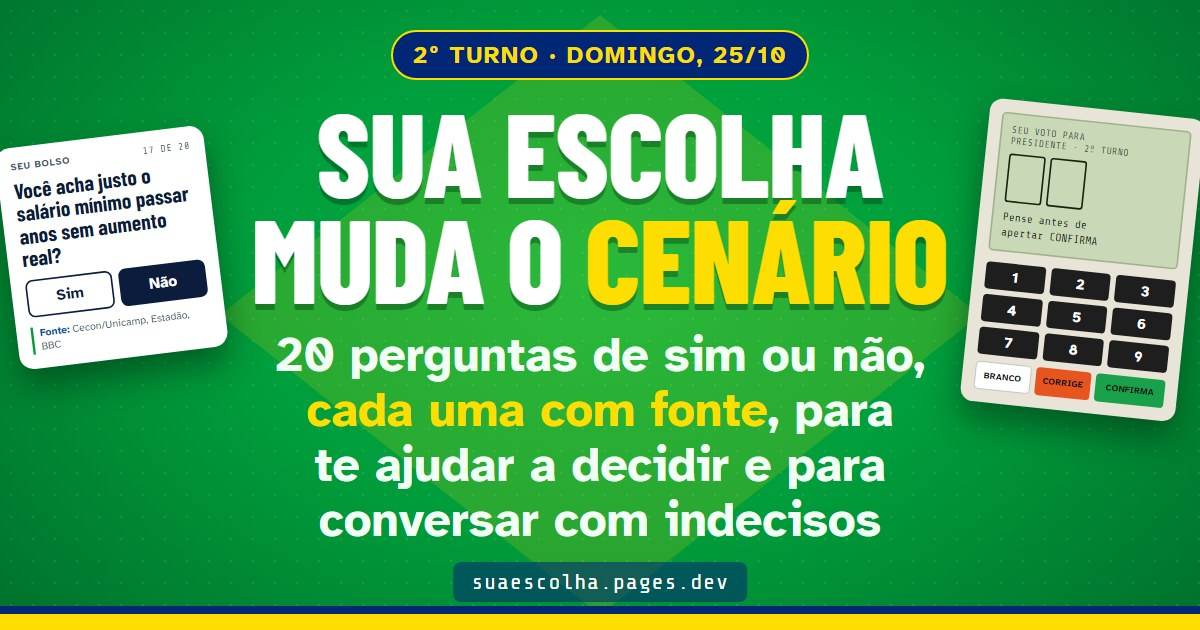
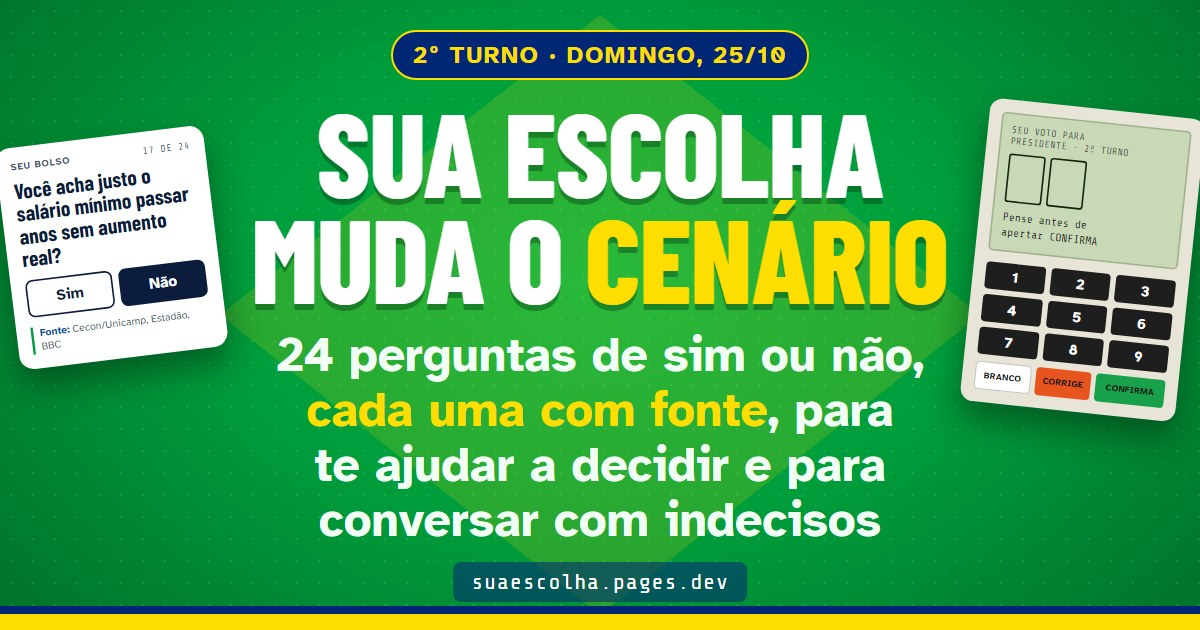
feat: pergunta da Lei Rouanet junta o filme e as festas; corrige a frase do Moro na pergunta da PF
- Filme + festas viram uma pergunta só, no formato do vídeo "Lei Rouanet? Desenhandinho"
  (PT Paraná, 11/10): descreve a Rouanet sem dizer o nome e revela depois; o "Sim" conta para o 13
- Fontes novas: nota "Zero de lei Rouanet", "Não sou eu que tenho que prestar conta, é Lula",
  produtora que buscou R$ 8,6 mi na Rouanet, Comprova sobre aprovado x captado
- Quiz passa a 24 perguntas (tela inicial, imagem da prévia, texto de compartilhar, manifest)
- PF: a frase "Jair pediu para a PF não atrapalhar a investigação" sugeria o contrário (pedido
  da Lorena, 23/10); agora traz o contexto da decisão do Toffoli e a fala literal do Moro
- Prévia do WhatsApp em ?v=3

Changed region(s): [[0.2158, 0.5127, 0.7708, 0.6032]]

diff --git a/fonte/app.html b/fonte/app.html
@@ -229,7 +229,7 @@ body::before{content:"";position:fixed;inset:0 0 auto;height:env(safe-area-inset
     <div class="eyebrow"><span>Nova conversa</span></div>
     <h2 class="pergunta" id="inicioTit">Como vai ser a conversa?</h2>
     <button class="modo principal" type="button" data-modo="rua"><b>Modo rua</b><span>2 a 5 minutos. A pessoa escolhe o tema e responde de 1 a 3 perguntas.</span></button>
-    <button class="modo" type="button" data-modo="completo"><b>Quiz completo</b><span>Até 25 perguntas, com resultado no fim. Com o perfil, a ordem e a quantidade se ajustam à pessoa.</span></button>
+    <button class="modo" type="button" data-modo="completo"><b>Quiz completo</b><span>Até 24 perguntas, com resultado no fim. Com o perfil, a ordem e a quantidade se ajustam à pessoa.</span></button>
   </section>
 
   <section class="card" id="triagem" hidden aria-labelledby="triagemTit">
@@ -368,7 +368,7 @@ const TEMAS = [
 ];
 /* Ordem pelo perfil. O voto decide se os escândalos aparecem; a idade e o gênero decidem quais temas vêm primeiro.
    Regras combinadas com a coordenação em 22/10; sem perfil preenchido, vale a ORDEM padrão */
-const ESCANDALOS = ["cnbb","pf","mentiras","filme","mansao","apostas","laranja","lavagem","kassio","milicia","festas"];
+const ESCANDALOS = ["cnbb","pf","mentiras","filme","mansao","apostas","laranja","lavagem","kassio","milicia"];
 const PRIO_IDADE = {
   "16 a 17 anos":["jornada","bets","univ","clima"], "18 a 24 anos":["jornada","bets","univ","clima"],
   "25 a 34 anos":["jornada","salario","irricos","mei","cesta"], "35 a 44 anos":["jornada","salario","irricos","mei","cesta"],
@@ -418,16 +418,15 @@ const CURTO = {
   tarifaco:"Flávio agradeceu a Trump no dia em que ele anunciou a tarifa de 50% contra produtos brasileiros.",
   armas:"Aliados de Flávio querem derrubar o Estatuto do Desarmamento. Lula endureceu as regras de armas em 2023.",
   cnbb:"Flávio acusou bispos da CNBB de espalhar fake news, sem mostrar provas.",
-  pf:"Segundo Sergio Moro, Jair pediu para a PF não atrapalhar a investigação sobre o filho Flávio.",
+  pf:"Segundo Sergio Moro, quando uma decisão judicial travou a investigação sobre Flávio, Jair pediu que ele não agisse contra ela: \"Moro, se você não vai ajudar, não atrapalhe\".",
   mentiras:"Flávio dizia não conhecer o dono do Banco Master. Nas mensagens, chamava ele de \"irmãozão\".",
-  filme:"Flávio negociou R$ 134 milhões com o banqueiro do Master, hoje preso, para o filme sobre o pai.",
+  filme:"Isso é a Lei Rouanet. O filme sobre Jair foi pelo outro caminho: Flávio negociou R$ 134 milhões com um banqueiro hoje preso, que, segundo a PF, pagava festas com jovens refugiadas.",
   mansao:"Flávio usou de graça uma mansão em Angra ligada a Daniel Vorcaro (dono preso do Banco Master) e a um advogado amigo investigado pela PF.",
   apostas:"O advogado amigo de Flávio movimentou R$ 130 milhões em 3 meses e apostou quase R$ 5 bilhões, diz a PF.",
   laranja:"Uma mulher que disse ser doméstica aparece como chefe de 14 empresas do advogado amigo de Flávio. A PF investiga.",
   lavagem:"A PF investiga Flávio no STF por lavagem de dinheiro: ele aparece como dono da senha geral (\"usuário master\") da conta de uma empresa em Portugal ligada a um investigado na fraude do INSS.",
   kassio:"O banqueiro do Master organizou uma noitada com garotas de programa para Kassio Nunes Marques, ministro indicado por Jair.",
-  milicia:"Flávio homenageou um chefe de milícia e indicou um aliado citado pela PF por suposta troca de favores com o CV.",
-  festas:"Segundo a PF, o banqueiro que bancou o filme de Flávio pagava festas com jovens refugiadas."
+  milicia:"Flávio homenageou um chefe de milícia e indicou um aliado citado pela PF por suposta troca de favores com o CV."
 };
 const detalhesAbertos = {};
 const TELAS = ["inicio","perfilCard","triagem","temas","cardQ","fimRua","final"];
@@ -575,7 +574,7 @@ const BASE = {
   pratica:"É como o dono da empresa pedir ao gerente para não mexer na apuração que envolve o filho dele. O caso era a \"rachadinha\": quando o político fica com parte do salário dos funcionários do gabinete.",
   quem:"Jair Bolsonaro, sobre o caso de Flávio",
   selo:"Relato de Sergio Moro",
-  fato:"Num vídeo antigo, resgatado nesta semana, Sergio Moro, que era ministro da Justiça, conta que Jair Bolsonaro lhe disse para não atrapalhar, se não fosse ajudar, as investigações sobre Flávio. O caso das rachadinhas foi arquivado em 2022, depois que a Justiça anulou as provas por questão de forma, sem decidir se Flávio era culpado ou inocente. Em 2025, o ministro Gilmar Mendes negou reabrir o caso. Em setembro de 2026, Flávio disse que existia um \"grupo especial de Lula\" dentro da PF.",
+  fato:"Numa entrevista de 2022, resgatada nesta semana, Sergio Moro, que era ministro da Justiça, conta que em 2019 uma decisão do ministro Dias Toffoli, do STF, travou por cerca de quatro meses a investigação das rachadinhas de Flávio. Moro queria que o ministério agisse contra a decisão, mas Jair não queria que se mexesse nisso e lhe disse: \"Moro, se você não vai ajudar, não atrapalhe\". O caso das rachadinhas foi arquivado em 2022, depois que a Justiça anulou as provas por questão de forma, sem decidir se Flávio era culpado ou inocente. Em 2025, o ministro Gilmar Mendes negou reabrir o caso. Em setembro de 2026, Flávio disse que existia um \"grupo especial de Lula\" dentro da PF.",
   outro:"É o relato de Moro, que hoje apoia Flávio. Jair sempre negou ter interferido na PF. Flávio diz que defende uma PF independente, que persiga criminosos e não adversários do governo.",
   treze:"No governo Lula, a PF investiga a fraude do INSS, incluindo apurações sobre Lulinha, que nega envolvimento. Uma reportagem apontou que essa investigação travou por falta de policiais.",
   fontes:[
@@ -599,20 +598,6 @@ const BASE = {
    ["DGABC","03/10/2026","Flávio Bolsonaro encerra último ato de campanha no Rio em frente a igreja","https://www.dgabc.com.br/Noticia/4350628/flavio-bolsonaro-encerra-ultimo-ato-de-campanha-no-rio-em-frente-a-igreja"],
    ["Aos Fatos","26/09/2026","Boatos sobre Nossa Senhora Aparecida e Flávio repaginam narrativas falsas","https://www.aosfatos.org/noticias/boato-sobre-nossa-senhora-aparecida-e-flavio-retoma-narrativas-falsas-de-2018-e-2022/"],
    ["NSC Total","04/10/2022","TSE manda apagar publicações que tentam ligar Lula à perseguição de cristãos","https://www.nsctotal.com.br/?p=2410418"]
-  ]
- },
- festas:{
-  cat:"master", t:"Festas com refugiadas pagas pelo Vorcaro",
-  p:"Você votaria em quem negociou dinheiro para o filme do pai com um banqueiro que, segundo mensagens da PF, pagava festas com jovens refugiadas que chamava de \"escravas\"?",
-  pratica:"Refugiadas são mulheres que fugiram de guerra ou de crise no país delas, como Ucrânia e Venezuela, e chegam aqui sem dinheiro e sem apoio.",
-  quem:"Daniel Vorcaro, patrocinador do filme de Flávio",
-  selo:"Mensagens da PF · inquérito aberto",
-  fato:"Mensagens do celular de Daniel Vorcaro, dono do Banco Master, reveladas pelo UOL a partir de um relatório da PF, mostram que ele organizava e pagava festas com mulheres para empresários e políticos desde pelo menos 2023. Ele preferia jovens refugiadas de até 20 anos, vindas de países como Ucrânia, Rússia e Venezuela. Nas conversas, ele e um promoter chamam as mulheres de \"escravas\", e Vorcaro escreve: \"Tem que sobrar alguma refugiada pra mim\". Numa festa em Londres, em 2024, com autoridades de Brasília, 99 mulheres foram levadas. Ele investiu pelo menos R$ 4,3 milhões no esquema, e a PF abriu inquérito em maio. É o mesmo banqueiro com quem Flávio negociou R$ 134 milhões para o filme sobre o pai.",
-  outro:"Não há registro de que Flávio tenha ido a essas festas. A defesa de Vorcaro não quis comentar o caso. Em outra ocasião, ele negou ter explorado ou desrespeitado mulheres.",
-  video:EP7,
-  fontes:[
-   ["O Tempo (com UOL)","13/10/2026","Vorcaro mantinha rede de prostituição com jovens refugiadas que ele chamava de escravas","https://www.otempo.com.br/politica/judiciario/2026/10/13/vorcaro-mantinha-rede-de-prostituicao-com-jovens-refugiadas-que-ele-chamava-de-escravas"],
-   ["Pipoca Moderna","20/10/2026","Porchat aborda tráfico de mulheres e negócios ocultos em novo vídeo sobre Flávio","https://pipocamoderna.com.br/2026/10/porchat-revelando-laranjas-flavio/"]
   ]
  },
  lavagem:{
@@ -673,17 +658,23 @@ const BASE = {
   ]
  },
  filme:{
-  cat:"master", t:"R$ 134 milhões para o filme do pai",
-  p:"Você acha aceitável um candidato negociar R$ 134 milhões com um banqueiro hoje preso para um filme sobre o pai?",
-  pratica:"R$ 134 milhões dariam para pagar o salário mínimo de uns 82 mil trabalhadores por um mês.",
-  quem:"Flávio Bolsonaro",
+  cat:"master", t:"Rouanet ou banqueiro preso?", l13:"sim",
+  p:"Você acha certo um filme ser feito assim: o artista vai atrás de patrocínio de empresas, o projeto é aprovado antes, a empresa desconta parte do imposto e, no fim, o artista tem que mostrar onde gastou cada real?",
+  pratica:"Descontar do imposto é a empresa pagar menos imposto de renda no valor que deu para a cultura, até um limite pequeno do que ela deve.",
+  quem:"A Lei Rouanet, de 1991. O filme sobre Jair: Flávio Bolsonaro, com dinheiro de Vorcaro",
   selo:"Investigado pela PF",
-  fato:"Segundo o Intercept, Flávio negociou com Daniel Vorcaro, dono do Banco Master, um repasse de US$ 24 milhões (R$ 134 milhões) para o filme Dark Horse, sobre Jair Bolsonaro. Documentos mostram pelo menos US$ 10,6 milhões pagos em 2025. A PF investiga o caso no STF, com Flávio entre os investigados. Vorcaro está preso desde março.",
-  outro:"Flávio diz que o filme é privado, sem dinheiro público, e nega ter recebido dinheiro ou oferecido vantagens a Vorcaro.",
+  fato:"O que você acabou de responder é como funciona a Lei Rouanet, de 1991. O governo não entrega dinheiro na mão do artista: o projeto é aprovado pelo Ministério da Cultura, o artista vai atrás de patrocínio e a empresa desconta parte do imposto de renda. Quem não presta contas ou gasta errado tem que devolver o dinheiro e fica 3 anos sem poder captar. Ter projeto aprovado também não é receber: em 2023, foram aprovados cerca de R$ 16 bilhões e captados R$ 2,3 bilhões. Sobre o filme Dark Horse, sobre Jair Bolsonaro, Flávio disse em nota: \"Zero de dinheiro público. Zero de lei Rouanet\". O filme foi por outro caminho: segundo o Intercept, Flávio negociou com Daniel Vorcaro, dono do Banco Master, preso desde março, US$ 24 milhões (R$ 134 milhões), e pelo menos US$ 10,6 milhões foram pagos em 2025. Flávio prometeu prestar contas em 30 dias; em agosto, disse: \"Não sou eu que tenho que prestar conta, é Lula\". Um laudo pago pela produtora diz que o filme custou R$ 75 milhões, sem recibos nem notas fiscais. A dona da produtora, aliás, tentou captar R$ 8,6 milhões pela Rouanet para outros projetos entre 2015 e 2019, e conseguiu R$ 107 mil. E mensagens do celular de Vorcaro, reveladas pelo UOL a partir de um relatório da PF, mostram que ele pagava festas com jovens refugiadas, que ele e um promoter chamavam de \"escravas\"; a PF abriu inquérito em maio. A PF investiga o filme no STF, com Flávio entre os investigados.",
+  outro:"Flávio diz que o filme é privado, sem dinheiro público, nega ter recebido dinheiro ou oferecido vantagens a Vorcaro e diz que a produtora já prestou contas num inquérito da Polícia Civil de São Paulo. Não há registro de que Flávio tenha ido às festas; Vorcaro já negou ter explorado ou desrespeitado mulheres.",
   treze:"Lula recebeu Vorcaro em dezembro de 2024, fora da agenda oficial, num encontro articulado por Guido Mantega, que foi consultor do Master. Políticos do Centrão também aparecem na rede de Vorcaro.",
   video:{t:"Revelando, ep. 2: Grandes Igrejas, Master Negócios",u:"https://www.youtube.com/watch?v=DJ-YAXhDkhY&t=480s",d:"Abre em 08:00, no capítulo \"Vorcaro e Flávio Bolsonaro\"."},
   fontes:[
+   ["Comprova, via Diário do Nordeste","12/09/2024","Há diferença entre os valores que são aprovados e os que são captados por projetos via Lei Rouanet","https://diariodonordeste.verdesmares.com.br/projeto-comprova/ha-diferenca-entre-os-valores-que-sao-aprovados-e-os-que-sao-captados-por-projetos-via-lei-rouanet-1.3557248"],
+   ["Bahia Notícias","29/11/2016","MinC reprova contas de mais 3 projetos via Lei Rouanet; restituição ultrapassa R$ 750 mil","https://www.bahianoticias.com.br/cultura/noticia/26383-minc-reprova-contas-de-mais-3-projetos-via-lei-rouanet-restituicao-ultrapassa-rdollar-750-mil"],
+   ["BBC News Brasil, via O Povo","27/05/2026","De \"baixíssimo orçamento\" a milhões pedidos a Vorcaro: os bastidores do filme sobre Bolsonaro (nota de Flávio)","https://www.opovo.com.br/agencia/bbc/2026/05/27/de-baixissimo-orcamento-a-milhoes-pedidos-a-vorcaro-os-bastidores-do-filme-sobre-bolsonaro.html"],
    ["Intercept Brasil, via Bem Paraná","13/05/2026","Flávio pediu R$ 134 milhões a Vorcaro para filme de Bolsonaro","https://www.bemparana.com.br/noticias/politica/flavio-pediu-r-134-milhoes-a-vorcaro-para-filme-de-bolsonaro-afirma-intercept/"],
+   ["Diário de Pernambuco","25/08/2026","Flávio Bolsonaro sobre Dark Horse: \"Não sou eu que tenho que prestar conta, é Lula\"","https://www.diariodepernambuco.com.br/politica/2026/08/11722184-flavio-bolsonaro-sobre-dark-horse-nao-sou-eu-que-tenho-que-prestar-conta-e-lula.html"],
+   ["Folha de S.Paulo, via Bahia Notícias","23/05/2026","Dona de produtora de filme sobre Bolsonaro buscou Lei Rouanet para projetos de R$ 8,6 milhões","https://www.bahianoticias.com.br/folha/noticia/393688-dona-de-produtora-de-filme-sobre-bolsonaro-buscou-lei-rouanet-para-projetos-de-r-86-milhoes"],
+   ["O Tempo (com UOL)","13/10/2026","Vorcaro mantinha rede de prostituição com jovens refugiadas que ele chamava de escravas","https://www.otempo.com.br/politica/judiciario/2026/10/13/vorcaro-mantinha-rede-de-prostituicao-com-jovens-refugiadas-que-ele-chamava-de-escravas"],
    ["Folha de Pernambuco","16/10/2026","PF pede mais 90 dias para investigar Dark Horse","https://www.folhape.com.br/politica/pf-pede-mais-90-dias-para-investigar-dark-horse/518933/"],
    ["Gazeta do Povo","07/03/2026","Do Planalto ao Centrão: quem são os políticos na teia de Vorcaro","https://www.gazetadopovo.com.br/republica/do-planalto-ao-centrao-quem-sao-os-politicos-na-teia-de-vorcaro/"]
   ]
@@ -828,7 +819,7 @@ const BASE = {
 };
 
 /* "Todas": dos temas mais leves aos mais pesados, para a pessoa não desistir logo no começo */
-const ORDEM = ["cesta","irricos","jornada","mei","bets","clima","salario","farmacia","aposentadoria","univ","privat","terras","tarifaco","armas","cnbb","pf","mentiras","filme","mansao","apostas","laranja","lavagem","kassio","milicia","festas"];
+const ORDEM = ["cesta","irricos","jornada","mei","bets","clima","salario","farmacia","aposentadoria","univ","privat","terras","tarifaco","armas","cnbb","pf","mentiras","filme","mansao","apostas","laranja","lavagem","kassio","milicia"];
 const NUM = Object.fromEntries(ORDEM.map((id,k)=>[id,k+1]));
 const CATNOME = Object.fromEntries(CATS.map(c=>[c.id,c.nome]));
 

diff --git a/site/app.js b/site/app.js
@@ -40,7 +40,7 @@ const TEMAS = [
 ];
 /* Ordem pelo perfil. O voto decide se os escândalos aparecem; a idade e o gênero decidem quais temas vêm primeiro.
    Regras combinadas com a coordenação em 22/10; sem perfil preenchido, vale a ORDEM padrão */
-const ESCANDALOS = ["cnbb","pf","mentiras","filme","mansao","apostas","laranja","lavagem","kassio","milicia","festas"];
+const ESCANDALOS = ["cnbb","pf","mentiras","filme","mansao","apostas","laranja","lavagem","kassio","milicia"];
 const PRIO_IDADE = {
   "16 a 17 anos":["jornada","bets","univ","clima"], "18 a 24 anos":["jornada","bets","univ","clima"],
   "25 a 34 anos":["jornada","salario","irricos","mei","cesta"], "35 a 44 anos":["jornada","salario","irricos","mei","cesta"],
@@ -90,16 +90,15 @@ const CURTO = {
   tarifaco:"Flávio agradeceu a Trump no dia em que ele anunciou a tarifa de 50% contra produtos brasileiros.",
   armas:"Aliados de Flávio querem derrubar o Estatuto do Desarmamento. Lula endureceu as regras de armas em 2023.",
   cnbb:"Flávio acusou bispos da CNBB de espalhar fake news, sem mostrar provas.",
-  pf:"Segundo Sergio Moro, Jair pediu para a PF não atrapalhar a investigação sobre o filho Flávio.",
+  pf:"Segundo Sergio Moro, quando uma decisão judicial travou a investigação sobre Flávio, Jair pediu que ele não agisse contra ela: \"Moro, se você não vai ajudar, não atrapalhe\".",
   mentiras:"Flávio dizia não conhecer o dono do Banco Master. Nas mensagens, chamava ele de \"irmãozão\".",
-  filme:"Flávio negociou R$ 134 milhões com o banqueiro do Master, hoje preso, para o filme sobre o pai.",
+  filme:"Isso é a Lei Rouanet. O filme sobre Jair foi pelo outro caminho: Flávio negociou R$ 134 milhões com um banqueiro hoje preso, que, segundo a PF, pagava festas com jovens refugiadas.",
   mansao:"Flávio usou de graça uma mansão em Angra ligada a Daniel Vorcaro (dono preso do Banco Master) e a um advogado amigo investigado pela PF.",
   apostas:"O advogado amigo de Flávio movimentou R$ 130 milhões em 3 meses e apostou quase R$ 5 bilhões, diz a PF.",
   laranja:"Uma mulher que disse ser doméstica aparece como chefe de 14 empresas do advogado amigo de Flávio. A PF investiga.",
   lavagem:"A PF investiga Flávio no STF por lavagem de dinheiro: ele aparece como dono da senha geral (\"usuário master\") da conta de uma empresa em Portugal ligada a um investigado na fraude do INSS.",
   kassio:"O banqueiro do Master organizou uma noitada com garotas de programa para Kassio Nunes Marques, ministro indicado por Jair.",
-  milicia:"Flávio homenageou um chefe de milícia e indicou um aliado citado pela PF por suposta troca de favores com o CV.",
-  festas:"Segundo a PF, o banqueiro que bancou o filme de Flávio pagava festas com jovens refugiadas."
+  milicia:"Flávio homenageou um chefe de milícia e indicou um aliado citado pela PF por suposta troca de favores com o CV."
 };
 const detalhesAbertos = {};
 const TELAS = ["inicio","perfilCard","triagem","temas","cardQ","fimRua","final"];
@@ -247,7 +246,7 @@ const BASE = {
   pratica:"É como o dono da empresa pedir ao gerente para não mexer na apuração que envolve o filho dele. O caso era a \"rachadinha\": quando o político fica com parte do salário dos funcionários do gabinete.",
   quem:"Jair Bolsonaro, sobre o caso de Flávio",
   selo:"Relato de Sergio Moro",
-  fato:"Num vídeo antigo, resgatado nesta semana, Sergio Moro, que era ministro da Justiça, conta que Jair Bolsonaro lhe disse para não atrapalhar, se não fosse ajudar, as investigações sobre Flávio. O caso das rachadinhas foi arquivado em 2022, depois que a Justiça anulou as provas por questão de forma, sem decidir se Flávio era culpado ou inocente. Em 2025, o ministro Gilmar Mendes negou reabrir o caso. Em setembro de 2026, Flávio disse que existia um \"grupo especial de Lula\" dentro da PF.",
+  fato:"Numa entrevista de 2022, resgatada nesta semana, Sergio Moro, que era ministro da Justiça, conta que em 2019 uma decisão do ministro Dias Toffoli, do STF, travou por cerca de quatro meses a investigação das rachadinhas de Flávio. Moro queria que o ministério agisse contra a decisão, mas Jair não queria que se mexesse nisso e lhe disse: \"Moro, se você não vai ajudar, não atrapalhe\". O caso das rachadinhas foi arquivado em 2022, depois que a Justiça anulou as provas por questão de forma, sem decidir se Flávio era culpado ou inocente. Em 2025, o ministro Gilmar Mendes negou reabrir o caso. Em setembro de 2026, Flávio disse que existia um \"grupo especial de Lula\" dentro da PF.",
   outro:"É o relato de Moro, que hoje apoia Flávio. Jair sempre negou ter interferido na PF. Flávio diz que defende uma PF independente, que persiga criminosos e não adversários do governo.",
   treze:"No governo Lula, a PF investiga a fraude do INSS, incluindo apurações sobre Lulinha, que nega envolvimento. Uma reportagem apontou que essa investigação travou por falta de policiais.",
   fontes:[
@@ -271,20 +270,6 @@ const BASE = {
    ["DGABC","03/10/2026","Flávio Bolsonaro encerra último ato de campanha no Rio em frente a igreja","https://www.dgabc.com.br/Noticia/4350628/flavio-bolsonaro-encerra-ultimo-ato-de-campanha-no-rio-em-frente-a-igreja"],
    ["Aos Fatos","26/09/2026","Boatos sobre Nossa Senhora Aparecida e Flávio repaginam narrativas falsas","https://www.aosfatos.org/noticias/boato-sobre-nossa-senhora-aparecida-e-flavio-retoma-narrativas-falsas-de-2018-e-2022/"],
    ["NSC Total","04/10/2022","TSE manda apagar publicações que tentam ligar Lula à perseguição de cristãos","https://www.nsctotal.com.br/?p=2410418"]
-  ]
- },
- festas:{
-  cat:"master", t:"Festas com refugiadas pagas pelo Vorcaro",
-  p:"Você votaria em quem negociou dinheiro para o filme do pai com um banqueiro que, segundo mensagens da PF, pagava festas com jovens refugiadas que chamava de \"escravas\"?",
-  pratica:"Refugiadas são mulheres que fugiram de guerra ou de crise no país delas, como Ucrânia e Venezuela, e chegam aqui sem dinheiro e sem apoio.",
-  quem:"Daniel Vorcaro, patrocinador do filme de Flávio",
-  selo:"Mensagens da PF · inquérito aberto",
-  fato:"Mensagens do celular de Daniel Vorcaro, dono do Banco Master, reveladas pelo UOL a partir de um relatório da PF, mostram que ele organizava e pagava festas com mulheres para empresários e políticos desde pelo menos 2023. Ele preferia jovens refugiadas de até 20 anos, vindas de países como Ucrânia, Rússia e Venezuela. Nas conversas, ele e um promoter chamam as mulheres de \"escravas\", e Vorcaro escreve: \"Tem que sobrar alguma refugiada pra mim\". Numa festa em Londres, em 2024, com autoridades de Brasília, 99 mulheres foram levadas. Ele investiu pelo menos R$ 4,3 milhões no esquema, e a PF abriu inquérito em maio. É o mesmo banqueiro com quem Flávio negociou R$ 134 milhões para o filme sobre o pai.",
-  outro:"Não há registro de que Flávio tenha ido a essas festas. A defesa de Vorcaro não quis comentar o caso. Em outra ocasião, ele negou ter explorado ou desrespeitado mulheres.",
-  video:EP7,
-  fontes:[
-   ["O Tempo (com UOL)","13/10/2026","Vorcaro mantinha rede de prostituição com jovens refugiadas que ele chamava de escravas","https://www.otempo.com.br/politica/judiciario/2026/10/13/vorcaro-mantinha-rede-de-prostituicao-com-jovens-refugiadas-que-ele-chamava-de-escravas"],
-   ["Pipoca Moderna","20/10/2026","Porchat aborda tráfico de mulheres e negócios ocultos em novo vídeo sobre Flávio","https://pipocamoderna.com.br/2026/10/porchat-revelando-laranjas-flavio/"]
   ]
  },
  lavagem:{
@@ -345,17 +330,23 @@ const BASE = {
   ]
  },
  filme:{
-  cat:"master", t:"R$ 134 milhões para o filme do pai",
-  p:"Você acha aceitável um candidato negociar R$ 134 milhões com um banqueiro hoje preso para um filme sobre o pai?",
-  pratica:"R$ 134 milhões dariam para pagar o salário mínimo de uns 82 mil trabalhadores por um mês.",
-  quem:"Flávio Bolsonaro",
+  cat:"master", t:"Rouanet ou banqueiro preso?", l13:"sim",
+  p:"Você acha certo um filme ser feito assim: o artista vai atrás de patrocínio de empresas, o projeto é aprovado antes, a empresa desconta parte do imposto e, no fim, o artista tem que mostrar onde gastou cada real?",
+  pratica:"Descontar do imposto é a empresa pagar menos imposto de renda no valor que deu para a cultura, até um limite pequeno do que ela deve.",
+  quem:"A Lei Rouanet, de 1991. O filme sobre Jair: Flávio Bolsonaro, com dinheiro de Vorcaro",
   selo:"Investigado pela PF",
-  fato:"Segundo o Intercept, Flávio negociou com Daniel Vorcaro, dono do Banco Master, um repasse de US$ 24 milhões (R$ 134 milhões) para o filme Dark Horse, sobre Jair Bolsonaro. Documentos mostram pelo menos US$ 10,6 milhões pagos em 2025. A PF investiga o caso no STF, com Flávio entre os investigados. Vorcaro está preso desde março.",
-  outro:"Flávio diz que o filme é privado, sem dinheiro público, e nega ter recebido dinheiro ou oferecido vantagens a Vorcaro.",
+  fato:"O que você acabou de responder é como funciona a Lei Rouanet, de 1991. O governo não entrega dinheiro na mão do artista: o projeto é aprovado pelo Ministério da Cultura, o artista vai atrás de patrocínio e a empresa desconta parte do imposto de renda. Quem não presta contas ou gasta errado tem que devolver o dinheiro e fica 3 anos sem poder captar. Ter projeto aprovado também não é receber: em 2023, foram aprovados cerca de R$ 16 bilhões e captados R$ 2,3 bilhões. Sobre o filme Dark Horse, sobre Jair Bolsonaro, Flávio disse em nota: \"Zero de dinheiro público. Zero de lei Rouanet\". O filme foi por outro caminho: segundo o Intercept, Flávio negociou com Daniel Vorcaro, dono do Banco Master, preso desde março, US$ 24 milhões (R$ 134 milhões), e pelo menos US$ 10,6 milhões foram pagos em 2025. Flávio prometeu prestar contas em 30 dias; em agosto, disse: \"Não sou eu que tenho que prestar conta, é Lula\". Um laudo pago pela produtora diz que o filme custou R$ 75 milhões, sem recibos nem notas fiscais. A dona da produtora, aliás, tentou captar R$ 8,6 milhões pela Rouanet para outros projetos entre 2015 e 2019, e conseguiu R$ 107 mil. E mensagens do celular de Vorcaro, reveladas pelo UOL a partir de um relatório da PF, mostram que ele pagava festas com jovens refugiadas, que ele e um promoter chamavam de \"escravas\"; a PF abriu inquérito em maio. A PF investiga o filme no STF, com Flávio entre os investigados.",
+  outro:"Flávio diz que o filme é privado, sem dinheiro público, nega ter recebido dinheiro ou oferecido vantagens a Vorcaro e diz que a produtora já prestou contas num inquérito da Polícia Civil de São Paulo. Não há registro de que Flávio tenha ido às festas; Vorcaro já negou ter explorado ou desrespeitado mulheres.",
   treze:"Lula recebeu Vorcaro em dezembro de 2024, fora da agenda oficial, num encontro articulado por Guido Mantega, que foi consultor do Master. Políticos do Centrão também aparecem na rede de Vorcaro.",
   video:{t:"Revelando, ep. 2: Grandes Igrejas, Master Negócios",u:"https://www.youtube.com/watch?v=DJ-YAXhDkhY&t=480s",d:"Abre em 08:00, no capítulo \"Vorcaro e Flávio Bolsonaro\"."},
   fontes:[
+   ["Comprova, via Diário do Nordeste","12/09/2024","Há diferença entre os valores que são aprovados e os que são captados por projetos via Lei Rouanet","https://diariodonordeste.verdesmares.com.br/projeto-comprova/ha-diferenca-entre-os-valores-que-sao-aprovados-e-os-que-sao-captados-por-projetos-via-lei-rouanet-1.3557248"],
+   ["Bahia Notícias","29/11/2016","MinC reprova contas de mais 3 projetos via Lei Rouanet; restituição ultrapassa R$ 750 mil","https://www.bahianoticias.com.br/cultura/noticia/26383-minc-reprova-contas-de-mais-3-projetos-via-lei-rouanet-restituicao-ultrapassa-rdollar-750-mil"],
+   ["BBC News Brasil, via O Povo","27/05/2026","De \"baixíssimo orçamento\" a milhões pedidos a Vorcaro: os bastidores do filme sobre Bolsonaro (nota de Flávio)","https://www.opovo.com.br/agencia/bbc/2026/05/27/de-baixissimo-orcamento-a-milhoes-pedidos-a-vorcaro-os-bastidores-do-filme-sobre-bolsonaro.html"],
    ["Intercept Brasil, via Bem Paraná","13/05/2026","Flávio pediu R$ 134 milhões a Vorcaro para filme de Bolsonaro","https://www.bemparana.com.br/noticias/politica/flavio-pediu-r-134-milhoes-a-vorcaro-para-filme-de-bolsonaro-afirma-intercept/"],
+   ["Diário de Pernambuco","25/08/2026","Flávio Bolsonaro sobre Dark Horse: \"Não sou eu que tenho que prestar conta, é Lula\"","https://www.diariodepernambuco.com.br/politica/2026/08/11722184-flavio-bolsonaro-sobre-dark-horse-nao-sou-eu-que-tenho-que-prestar-conta-e-lula.html"],
+   ["Folha de S.Paulo, via Bahia Notícias","23/05/2026","Dona de produtora de filme sobre Bolsonaro buscou Lei Rouanet para projetos de R$ 8,6 milhões","https://www.bahianoticias.com.br/folha/noticia/393688-dona-de-produtora-de-filme-sobre-bolsonaro-buscou-lei-rouanet-para-projetos-de-r-86-milhoes"],
+   ["O Tempo (com UOL)","13/10/2026","Vorcaro mantinha rede de prostituição com jovens refugiadas que ele chamava de escravas","https://www.otempo.com.br/politica/judiciario/2026/10/13/vorcaro-mantinha-rede-de-prostituicao-com-jovens-refugiadas-que-ele-chamava-de-escravas"],
    ["Folha de Pernambuco","16/10/2026","PF pede mais 90 dias para investigar Dark Horse","https://www.folhape.com.br/politica/pf-pede-mais-90-dias-para-investigar-dark-horse/518933/"],
    ["Gazeta do Povo","07/03/2026","Do Planalto ao Centrão: quem são os políticos na teia de Vorcaro","https://www.gazetadopovo.com.br/republica/do-planalto-ao-centrao-quem-sao-os-politicos-na-teia-de-vorcaro/"]
   ]
@@ -500,7 +491,7 @@ const BASE = {
 };
 
 /* "Todas": dos temas mais leves aos mais pesados, para a pessoa não desistir logo no começo */
-const ORDEM = ["cesta","irricos","jornada","mei","bets","clima","salario","farmacia","aposentadoria","univ","privat","terras","tarifaco","armas","cnbb","pf","mentiras","filme","mansao","apostas","laranja","lavagem","kassio","milicia","festas"];
+const ORDEM = ["cesta","irricos","jornada","mei","bets","clima","salario","farmacia","aposentadoria","univ","privat","terras","tarifaco","armas","cnbb","pf","mentiras","filme","mansao","apostas","laranja","lavagem","kassio","milicia"];
 const NUM = Object.fromEntries(ORDEM.map((id,k)=>[id,k+1]));
 const CATNOME = Object.fromEntries(CATS.map(c=>[c.id,c.nome]));
 
@@ -816,7 +807,7 @@ tela("inicio");
 ;
 
 $("btnCompartilhar").addEventListener("click", async () => {
-  const dados = {title:"Sua escolha muda o cenário", text:"20 perguntas de sim ou não, cada uma com fonte, para te ajudar a decidir e para conversar com indecisos no 2º turno:", url:"https://suaescolha.pages.dev/?v=2"};
+  const dados = {title:"Sua escolha muda o cenário", text:"24 perguntas de sim ou não, cada uma com fonte, para te ajudar a decidir e para conversar com indecisos no 2º turno:", url:"https://suaescolha.pages.dev/?v=3"};
   if (navigator.share) { try { await navigator.share(dados); } catch(e){} return; }
   try { await navigator.clipboard.writeText(dados.url); $("avisoCompartilhar").textContent = "Link copiado."; }
   catch(e){ $("avisoCompartilhar").textContent = dados.url; }

diff --git a/site/index.html b/site/index.html
@@ -13,8 +13,8 @@
 <meta property="og:title" content="Sua escolha muda o cenário">
 <meta property="og:description" content="Perguntas de sim ou não, cada uma com fonte, para te ajudar a decidir e para conversar com indecisos no 2º turno.">
 <meta property="og:url" content="https://suaescolha.pages.dev/">
-<meta property="og:image" content="https://suaescolha.pages.dev/og.jpg?v=2">
-<meta property="og:image:secure_url" content="https://suaescolha.pages.dev/og.jpg?v=2">
+<meta property="og:image" content="https://suaescolha.pages.dev/og.jpg?v=3">
+<meta property="og:image:secure_url" content="https://suaescolha.pages.dev/og.jpg?v=3">
 <meta property="og:image:type" content="image/jpeg">
 <meta property="og:image:width" content="1200">
 <meta property="og:image:height" content="630">
@@ -22,7 +22,7 @@
 <meta name="twitter:card" content="summary_large_image">
 <meta name="twitter:title" content="Sua escolha muda o cenário">
 <meta name="twitter:description" content="Perguntas de sim ou não, cada uma com fonte, para te ajudar a decidir e para conversar com indecisos no 2º turno.">
-<meta name="twitter:image" content="https://suaescolha.pages.dev/og.jpg?v=2">
+<meta name="twitter:image" content="https://suaescolha.pages.dev/og.jpg?v=3">
 <link rel="icon" href="/favicon.svg" type="image/svg+xml">
 <link rel="icon" href="/icon-192.png" sizes="192x192" type="image/png">
 <link rel="apple-touch-icon" href="/apple-touch-icon.png">
@@ -260,7 +260,7 @@ body::before{content:"";position:fixed;inset:0 0 auto;height:env(safe-area-inset
     <div class="eyebrow"><span>Nova conversa</span></div>
     <h2 class="pergunta" id="inicioTit">Como vai ser a conversa?</h2>
     <button class="modo principal" type="button" data-modo="rua"><b>Modo rua</b><span>2 a 5 minutos. A pessoa escolhe o tema e responde de 1 a 3 perguntas.</span></button>
-    <button class="modo" type="button" data-modo="completo"><b>Quiz completo</b><span>Até 25 perguntas, com resultado no fim. Com o perfil, a ordem e a quantidade se ajustam à pessoa.</span></button>
+    <button class="modo" type="button" data-modo="completo"><b>Quiz completo</b><span>Até 24 perguntas, com resultado no fim. Com o perfil, a ordem e a quantidade se ajustam à pessoa.</span></button>
   </section>
 
   <section class="card" id="triagem" hidden aria-labelledby="triagemTit">

diff --git a/fonte/og.html b/fonte/og.html
@@ -52,7 +52,7 @@ h1 .am{color:#FEDD00}
 <div class="losango"></div>
 
 <div class="cartao">
-  <div class="eb"><span>Seu bolso</span><span>17 de 20</span></div>
+  <div class="eb"><span>Seu bolso</span><span>17 de 24</span></div>
   <div class="q">Você acha justo o salário mínimo passar anos sem aumento real?</div>
   <div class="bts"><span class="bt">Sim</span><span class="bt on">Não</span></div>
   <div class="fonte"><b>Fonte:</b> Cecon/Unicamp, Estadão, BBC</div>
@@ -72,7 +72,7 @@ h1 .am{color:#FEDD00}
 <div class="centro">
   <span class="pill">2º turno · domingo, 25/10</span>
   <h1>Sua escolha<br>muda o <span class="am">cenário</span></h1>
-  <p class="sub">20 perguntas de sim ou não, <b>cada uma com fonte</b>, para te ajudar a decidir e para conversar com indecisos</p>
+  <p class="sub">24 perguntas de sim ou não, <b>cada uma com fonte</b>, para te ajudar a decidir e para conversar com indecisos</p>
 </div>
 
 <div class="rodape">suaescolha.pages.dev</div>

diff --git a/fonte/montar.py b/fonte/montar.py
@@ -31,8 +31,8 @@ head = f"""<!doctype html>
 <meta property="og:title" content="Sua escolha muda o cenário">
 <meta property="og:description" content="{DESC}">
 <meta property="og:url" content="{URL}">
-<meta property="og:image" content="{URL}og.jpg?v=2">
-<meta property="og:image:secure_url" content="{URL}og.jpg?v=2">
+<meta property="og:image" content="{URL}og.jpg?v=3">
+<meta property="og:image:secure_url" content="{URL}og.jpg?v=3">
 <meta property="og:image:type" content="image/jpeg">
 <meta property="og:image:width" content="1200">
 <meta property="og:image:height" content="630">
@@ -40,7 +40,7 @@ head = f"""<!doctype html>
 <meta name="twitter:card" content="summary_large_image">
 <meta name="twitter:title" content="Sua escolha muda o cenário">
 <meta name="twitter:description" content="{DESC}">
-<meta name="twitter:image" content="{URL}og.jpg?v=2">
+<meta name="twitter:image" content="{URL}og.jpg?v=3">
 <link rel="icon" href="/favicon.svg" type="image/svg+xml">
 <link rel="icon" href="/icon-192.png" sizes="192x192" type="image/png">
 <link rel="apple-touch-icon" href="/apple-touch-icon.png">
@@ -69,7 +69,7 @@ rodape = """
 </footer>
 <script>
 $("btnCompartilhar").addEventListener("click", async () => {
-  const dados = {title:"Sua escolha muda o cenário", text:"20 perguntas de sim ou não, cada uma com fonte, para te ajudar a decidir e para conversar com indecisos no 2º turno:", url:"https://suaescolha.pages.dev/?v=2"};
+  const dados = {title:"Sua escolha muda o cenário", text:"24 perguntas de sim ou não, cada uma com fonte, para te ajudar a decidir e para conversar com indecisos no 2º turno:", url:"https://suaescolha.pages.dev/?v=3"};
   if (navigator.share) { try { await navigator.share(dados); } catch(e){} return; }
   try { await navigator.clipboard.writeText(dados.url); $("avisoCompartilhar").textContent = "Link copiado."; }
   catch(e){ $("avisoCompartilhar").textContent = dados.url; }
